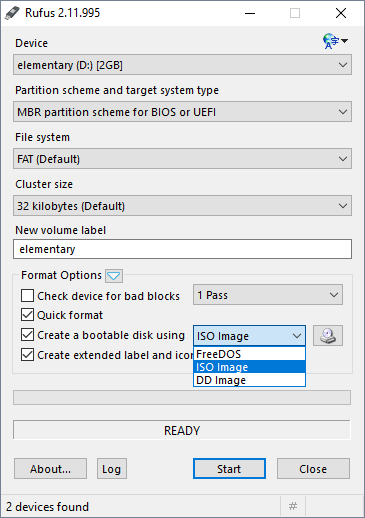
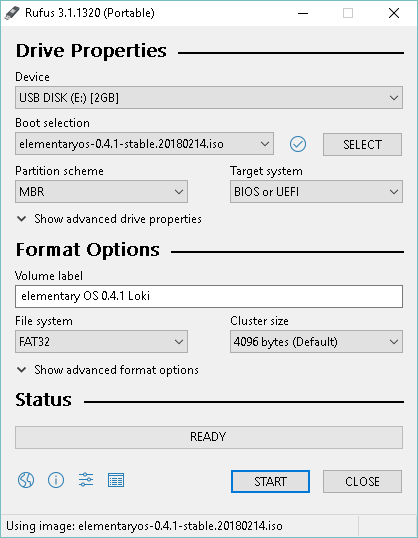
Installation doc update (#1985)
* Update the screenshot to Rufus 3.1 #1983

* Updated Rufus instruction #1983

* Fixed margin for icon

* Added gulp task to optimize gif images

* Updating etcher Screenshot #1983

* Fixing syntax

* PR #1985  requested changes

Changed Etcher url to support HTTPS
Changed UNetbootin URL
Changed CSS rule for img.inline
Changed Rufus screen and correct permissions

diff --git a/gulpfile.babel.js b/gulpfile.babel.js
@@ -70,6 +70,24 @@ gulp.task('jpg', () => {
 })
 
 /**
+ * gif
+ * Optimizes gif images
+ *
+ * @returns {Task} - a gulp task for gif images
+ */
+gulp.task('gif', () => {
+    const base = '_images'
+    const src = ['_images/**/*.gif', '_images/**/*.gif']
+    const dest = 'images'
+
+    return gulp.src(src, { base })
+    .pipe(changed(dest))
+    .pipe(cache('gif'))
+    .pipe(imagemin())
+    .pipe(gulp.dest(dest))
+})
+
+/**
  * svg
  * Optimizes svg image outputs with svgo
  *
@@ -143,7 +161,7 @@ gulp.task('svg', () => {
  *
  * @returns {Task} - a gulp task for all image optimizations
  */
-gulp.task('images', gulp.parallel('store', 'png', 'jpg', 'svg'))
+gulp.task('images', gulp.parallel('store', 'png', 'jpg', 'svg', 'gif'))
 
 /**
  * styles

diff --git a/_styles/docs.css b/_styles/docs.css
@@ -103,6 +103,10 @@ ul {
     margin: 1.5em auto;
 }
 
+img.inline {
+    margin: 0;
+}
+
 img.float-left {
     margin-right: 24px;
 }

diff --git a/docs/installation.md b/docs/installation.md
@@ -57,14 +57,14 @@ You'll need a USB flash drive with at least 2 GB of free space and a program cal
 
 1. Open Rufus
 2. Insert your USB drive and select it in the "Device" list
-3. Select "ISO Image" next to "Create a bootable disk using..."
-4. Click ![the disk icon](images/docs/installation/rufus_disk_icon.png) {.inline} to choose the ISO that you downloaded previously.
-5. We generate a checksum (or hash sum) for elementary OS images so you can verify your downloaded file. This ensures that you've received the full, complete download and that your install image is not corrupted in any way. Click the `#` button in the status bar and verify that the text next to "SHA256" matches the following hash:
+3. Select "Disk or ISO image" in the "Boot selection" list
+4. Click "SELECT" to choose the ISO that you downloaded previously.
+5. We generate a checksum (or hash sum) for elementary OS images so you can verify your downloaded file. This ensures that you've received the full, complete download and that your install image is not corrupted in any way. Click  ![the checksum icon](images/docs/installation/rufus_checksum_icon.png) {.inline}  next to "SELECT" and verify that the text next to "SHA256" matches the following hash:
 ```bash nohighlight
[1 lines of base64/hex data omitted]
 ```
 
-6. If the hashes match, click "Start" and wait for the process to finish.
+6. If the hashes match, click "START" and wait for the process to finish.
 
 ## Booting from the Install Drive {#booting-from-the-installation-medium .clear-float}
 
@@ -108,21 +108,17 @@ shasum -a 256 <Path to the Downloaded Folder>/elementaryos-0.4.1-stable.20180214
 
 To create an elementary OS install drive on macOS you'll need a USB flash drive that is at least 2 GB in capacity and an app called "Etcher".
 
-<a href="http://www.etcher.io/" class="button suggested-action">Download Etcher</a>
+<a href="https://www.etcher.io/" class="button suggested-action">Download Etcher</a>
+
+
+![etcher steps](images/docs/installation/etcher.gif)
+
 
 1. Insert the spare USB drive, and select the ISO file you've just downloaded.
 2. Open "Etcher" and select your downloaded elementary OS image file using the "Select image" button.
-
-    ![Select image in Etcher](images/docs/installation/etcher_osx_select.png)
-
 3. Etcher should automatically detect your USB drive, but check to see if it has selected the correct target.
 4. Start the flashing process by clicking the "Flash!" button. It will take a moment to get started.
-
-    ![Flash image in Etcher](images/docs/installation/etcher_osx_flash.png)
-
 5. When complete it will be safe to remove the drive and attempt to boot to install elementary OS.
-
-    ![Flash image in Etcher](images/docs/installation/etcher_osx_complete.png)
 
 The following dialog may appear during the flashing process, it is safe to ignore.
 
@@ -167,7 +163,7 @@ should produce the output:
 
 You'll need a USB flash drive with at least 2 GB of free space and a program called UNetbootin.
 
-<a href="http://www.appnr.com/install/unetbootin" class="button suggested-action">Download UNetbootin</a>
+<a href="https://unetbootin.github.io/" class="button suggested-action">Download UNetbootin</a>
 
 
 1. Open UNetbootin from the Dash. It will open a window like the one below:
